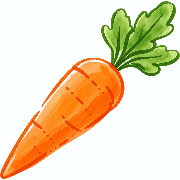
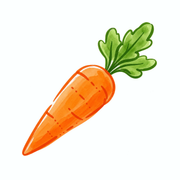
feat(бренд): знак занимает 75% плитки — иконка уменьшена на 25%
Морковь была отрисована во всю плитку, край в край. На домашнем экране
рядом с системными иконками, которые всегда оставляют воздух по краям,
она выглядела заметно крупнее соседей. Теперь знак занимает 75% плитки,
остальное — поля того же фона #fcffff.

Заодно исправлен порядок операций в gen-assets.mjs: sharp выполняет
resize раньше extend независимо от порядка в цепочке, поэтому финальный
resize(size, size) не ужимал плитку обратно, а отступы добавлялись уже
после него — с ненулевыми полями иконка выросла бы на 2×pad. Отступы
считаются точно (остаток от нечётного зазора уходит вниз и вправо),
финальный resize убран.

Версия кэша service worker поднята до v12 — иначе новые иконки не
доехали бы до тех, у кого приложение уже на главном экране.

Claude-Session: https://claude.ai/code/session_01MuTvBzQdzUpsZiFCMmjuAr

Changed region(s): [[0.0, 0.0, 1.0, 1.0]]

diff --git a/public/sw.js b/public/sw.js
@@ -1,4 +1,4 @@
-const CACHE = 'eataps-v11'
+const CACHE = 'eataps-v12'
 // Стартовые ассеты ядра (entry-скрипт + css) подставляются при сборке скриптом
 // scripts/inject-precache.mjs вместо маркера ниже.
 const BUILD_ASSETS = /* __BUILD_ASSETS__ */ []
